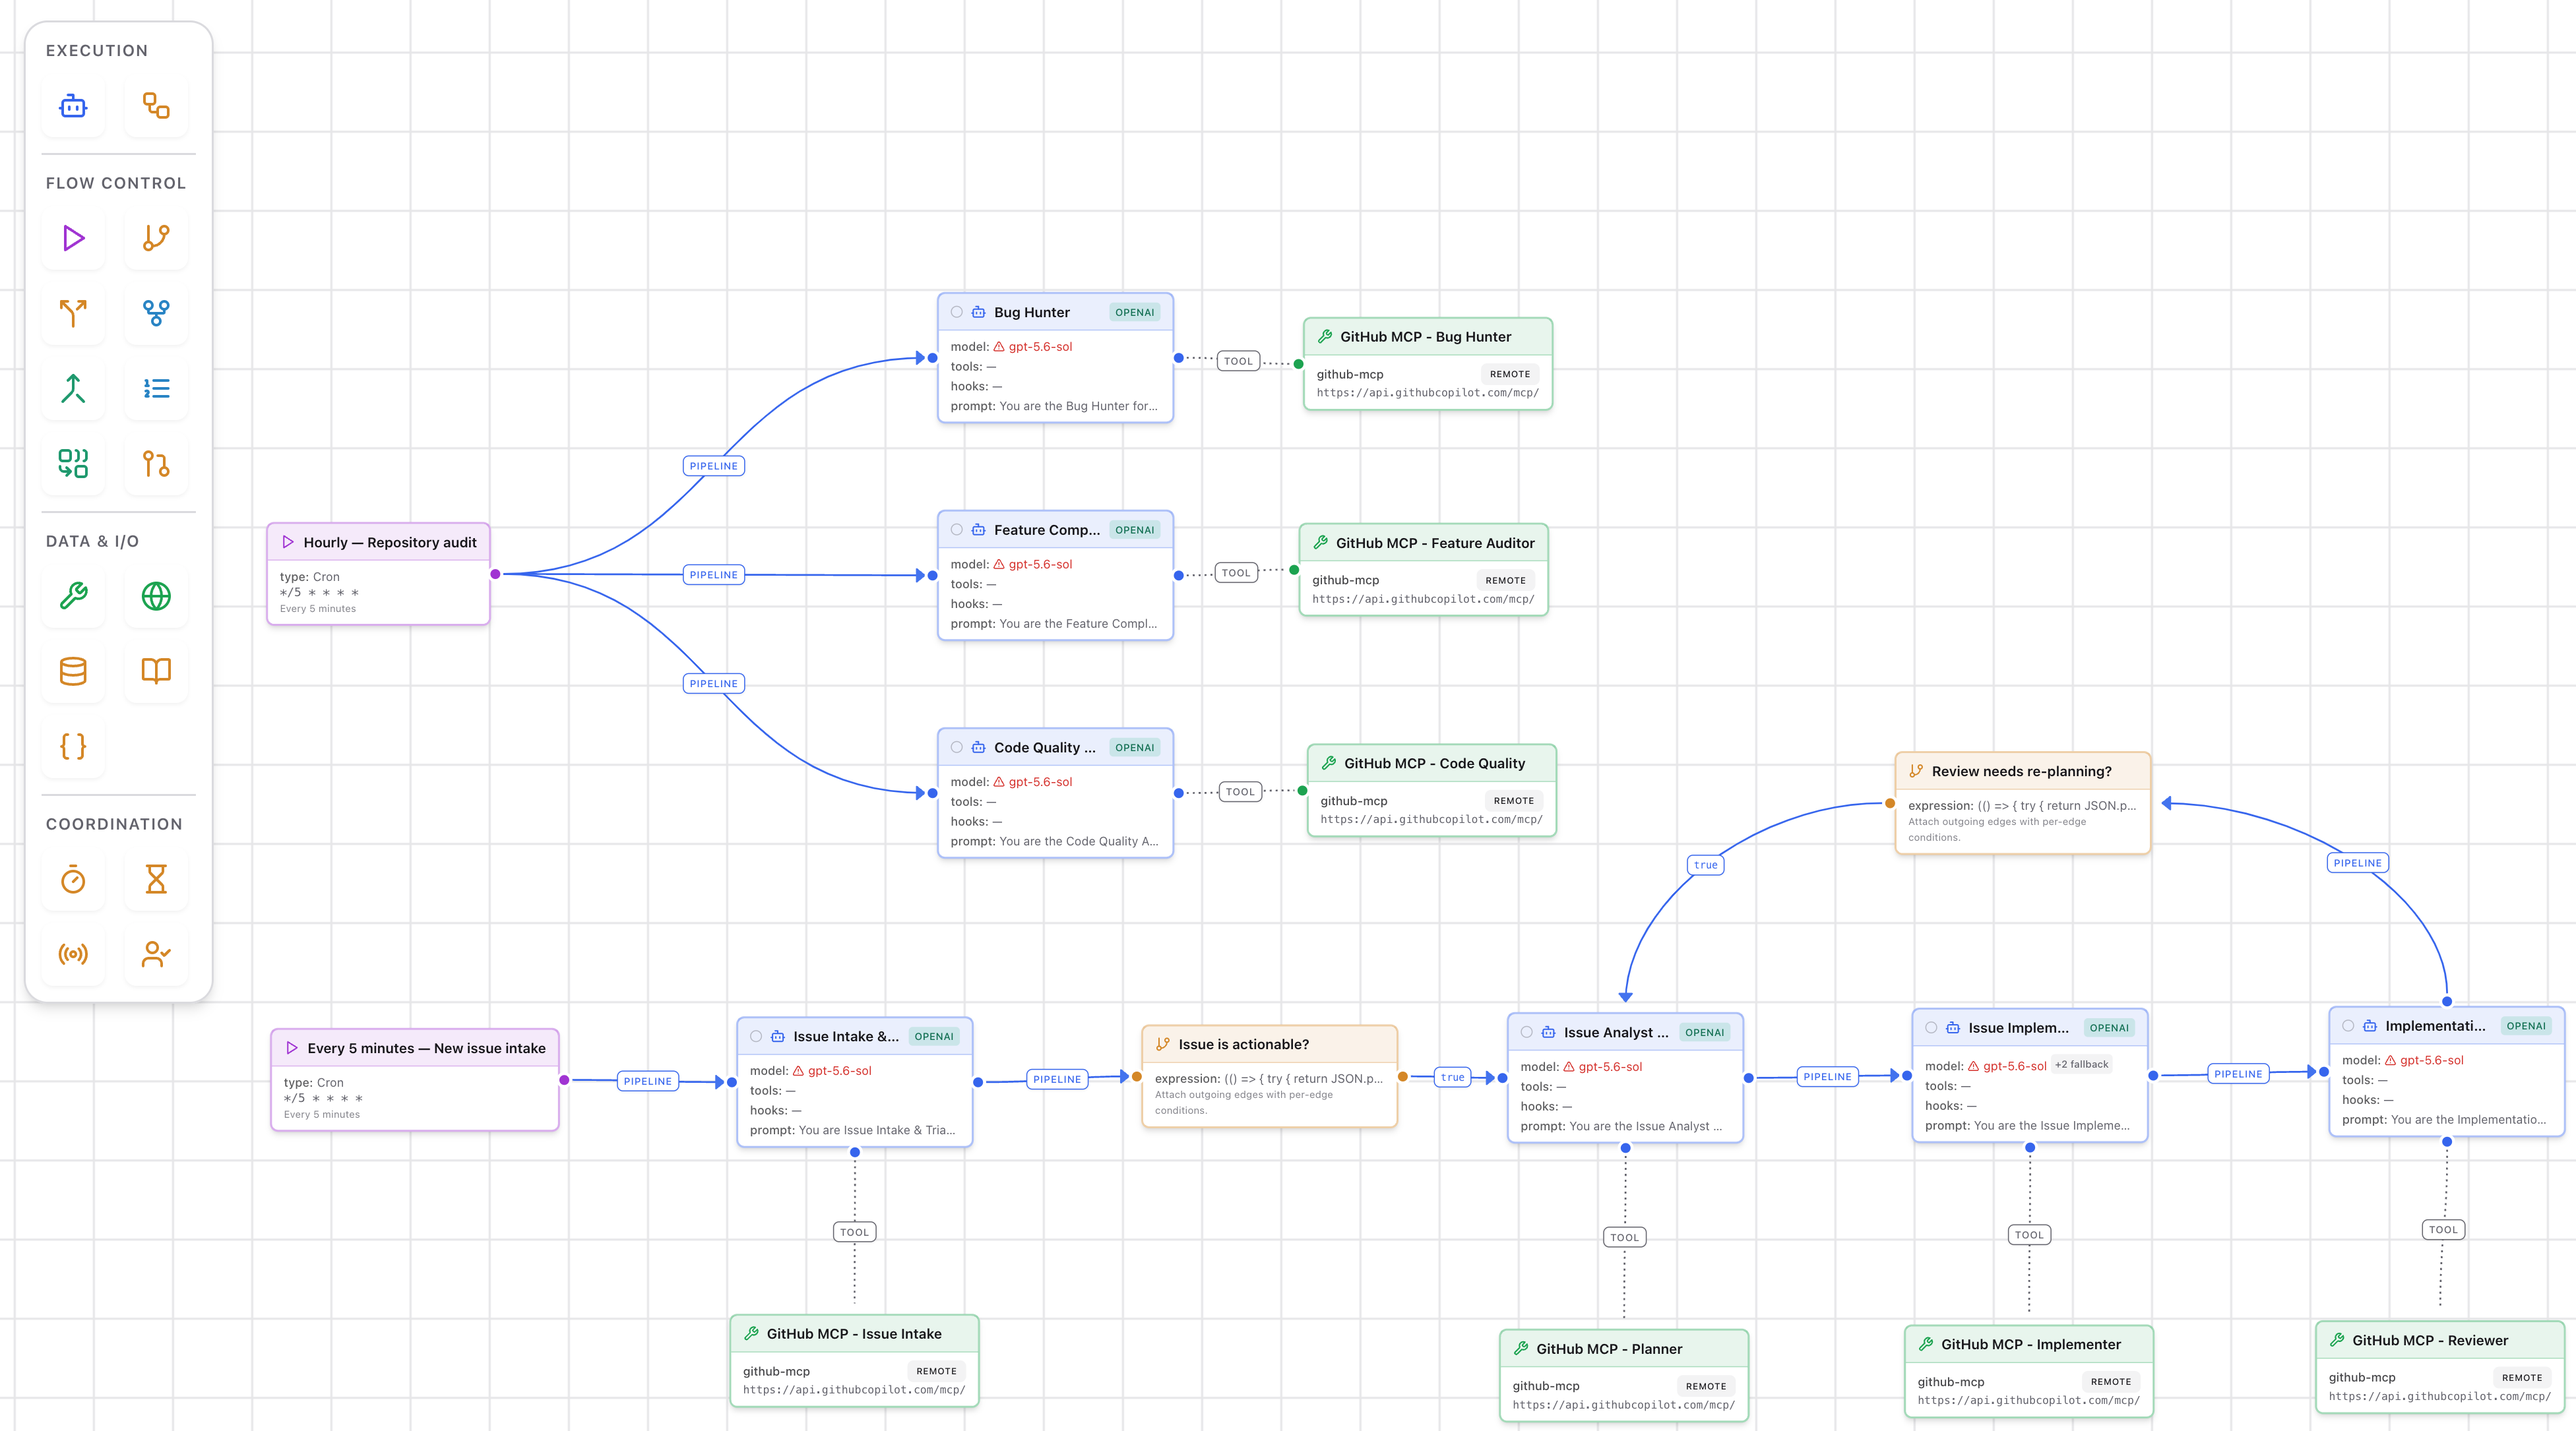
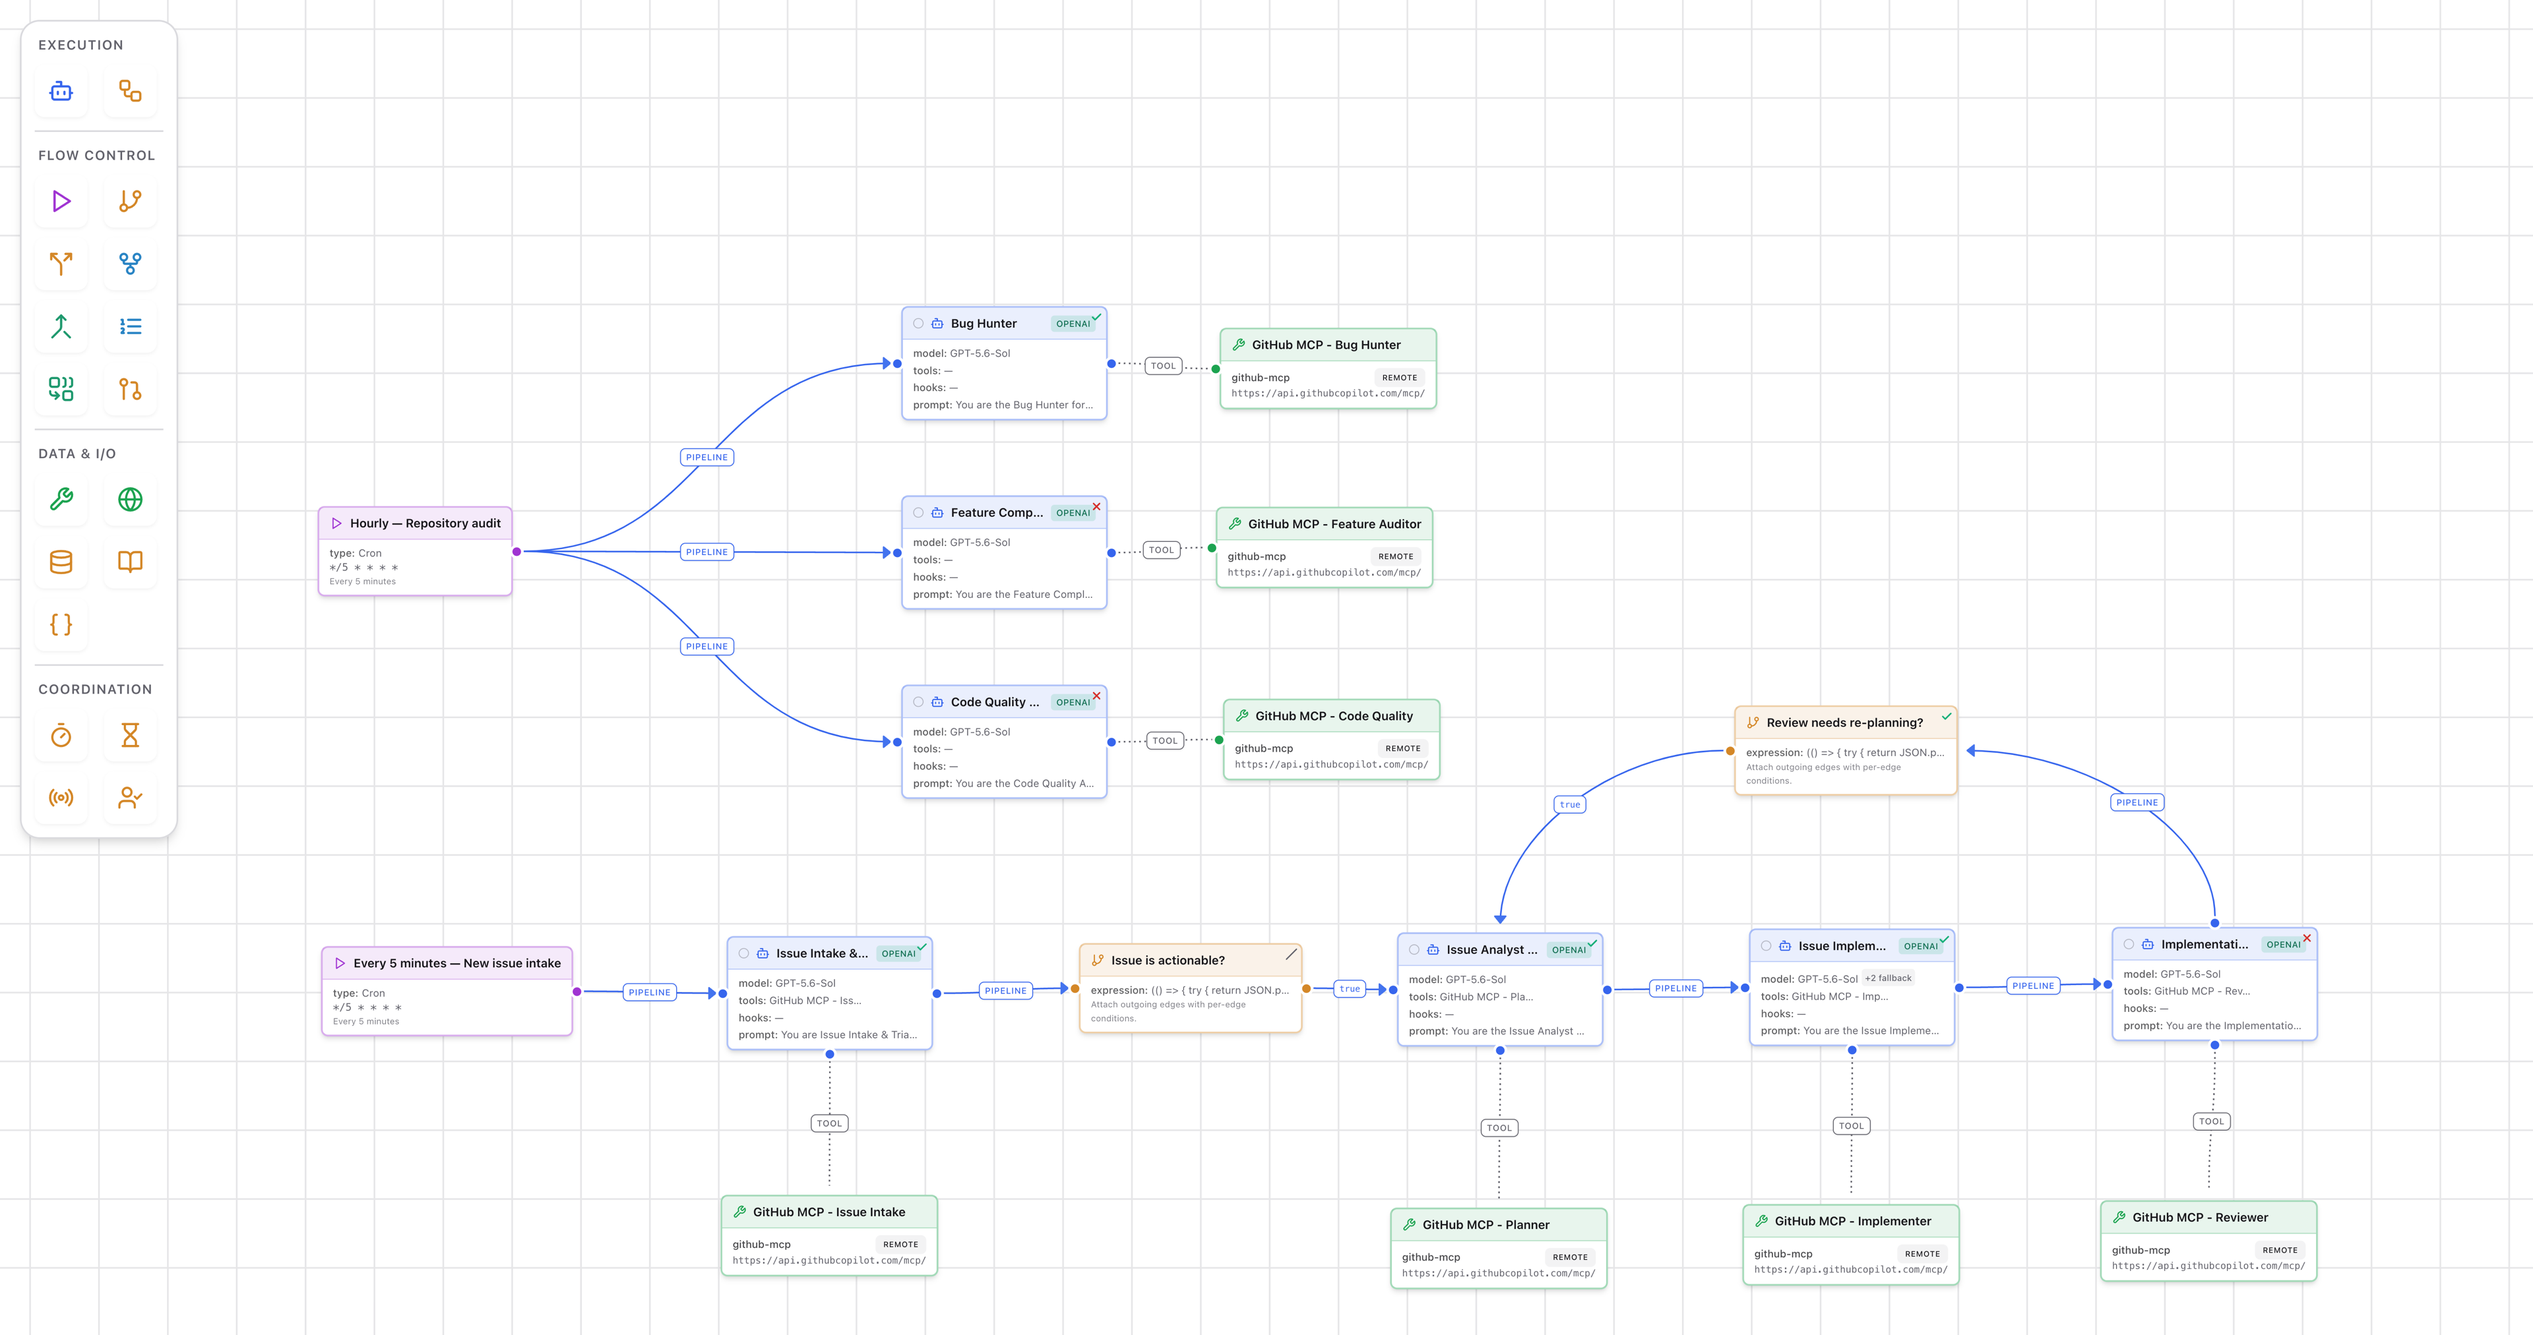
Slides: update AgentStudio figures to 13 Oct 2026 data and new workflow capture

diff --git a/index.html b/index.html
@@ -452,15 +452,15 @@
           <div class="item stage-card"><p class="when">12 May · Day 1</p><h4>Built by hand with Claude</h4><ul><li>Canvas with <b>Agent, Tool, Trigger, Condition</b> nodes, inspector, SQLite, encrypted secrets</li><li><b>149 commits</b> in one day; 63 TypeScript files</li></ul></div>
           <div class="item stage-card"><p class="when">13 May</p><h4>Gets hands: CLI and cron</h4><ul><li>Headless <b>CLI</b> and a <b>cron scheduler</b>, so workflows can run unattended</li><li>Issue 1 is a CLI feature; CLAUDE.md sets the agent rules</li></ul></div>
           <div class="item stage-card"><p class="when">15 May</p><h4>Closes the loop</h4><ul><li><b>Autonomy 1/4 to 4/4</b> (issues 559 to 562): PR tools, Reviewer agent, PR Validators with auto-merge, bounded fixer loop</li></ul></div>
-          <div class="item stage-card"><p class="when">10 to 19 Jul</p><h4>Runs at scale</h4><ul><li>Numbered <b>waves</b> of work: approval gate, webhook trigger, OTLP tracing, crash-safe runs</li><li><b>1,095</b> TypeScript files in <code>src</code></li></ul></div>
+          <div class="item stage-card"><p class="when">10 to 23 Jul</p><h4>Runs at scale</h4><ul><li>Numbered <b>waves</b> of work: approval gate, webhook trigger, OTLP tracing, crash-safe runs</li><li><b>1,153</b> TypeScript files in <code>src</code></li></ul></div>
         </div>
       </div>
-      <p class="stats"><span><b>1,303</b> commits</span><span><b>920</b> merged PRs</span><span><b>1,468</b> issues</span><span><b>17</b> days with commits</span></p>
+      <p class="stats"><span><b>1,618</b> commits</span><span><b>920</b> merged PRs</span><span><b>1,468</b> issues</span><span><b>21</b> days with commits</span></p>
     </div>
     <footer class="refs">
       <h3>Source</h3>
       <ol>
-        <li>Oh, H. (2026). <a href="https://github.com/hakjuoh/AgentStudio/issues" target="_blank" rel="noopener">AgentStudio</a>: git history, CLAUDE.md, examples/workflows and GitHub issues. Counts read from GitHub on 6 Oct 2026.</li>
+        <li>Oh, H. (2026). <a href="https://github.com/hakjuoh/AgentStudio/issues" target="_blank" rel="noopener">AgentStudio</a>: git history, CLAUDE.md, examples/workflows and GitHub issues. Counts read from GitHub on 13 Oct 2026.</li>
       </ol>
     </footer>
   </div>
@@ -468,7 +468,7 @@
     <p>Every change starts as a <b>GitHub issue</b>. Walk the loop: the issue reviewer claims it, the author builds on its own branch, four validators check the pull request in parallel, the reviewer approves or sends it back for a bounded fix loop, then it merges itself.</p>
     <p>The detail I like: anything an agent finds outside its task becomes a new issue. The loop feeds itself.</p>
     <p>Timeline. Day 1 (12 May) built by hand with Claude. 13 May: CLI and cron, so it runs unattended. 15 May: the loop closes with reviewer, validators and auto-merge. July: it runs at scale in numbered waves.</p>
-    <p>Numbers, read from GitHub on 6 Oct 2026: 1,303 commits, 920 merged PRs, 1,468 issues, over 17 days with commits.</p>
+    <p>Numbers, read from GitHub on 13 Oct 2026: 1,618 commits, 920 merged PRs, 1,468 issues, over 21 days with commits.</p>
     <p><span class="cue">Say plainly: this is one project and one developer's experience, not a benchmark. Hover a box for what each step really is.</span></p>
   </aside>
 </section>
